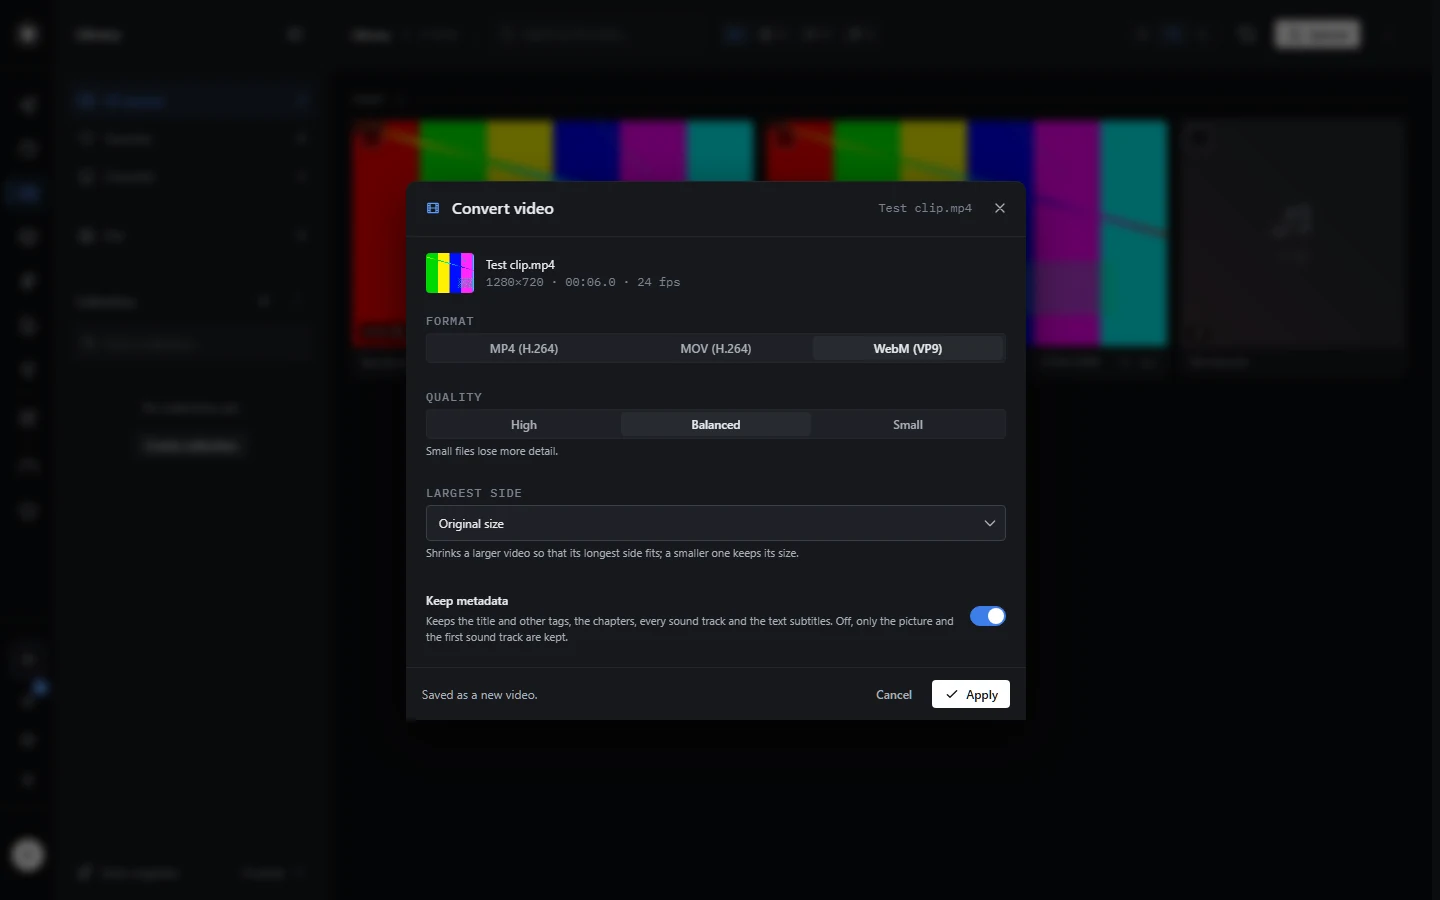
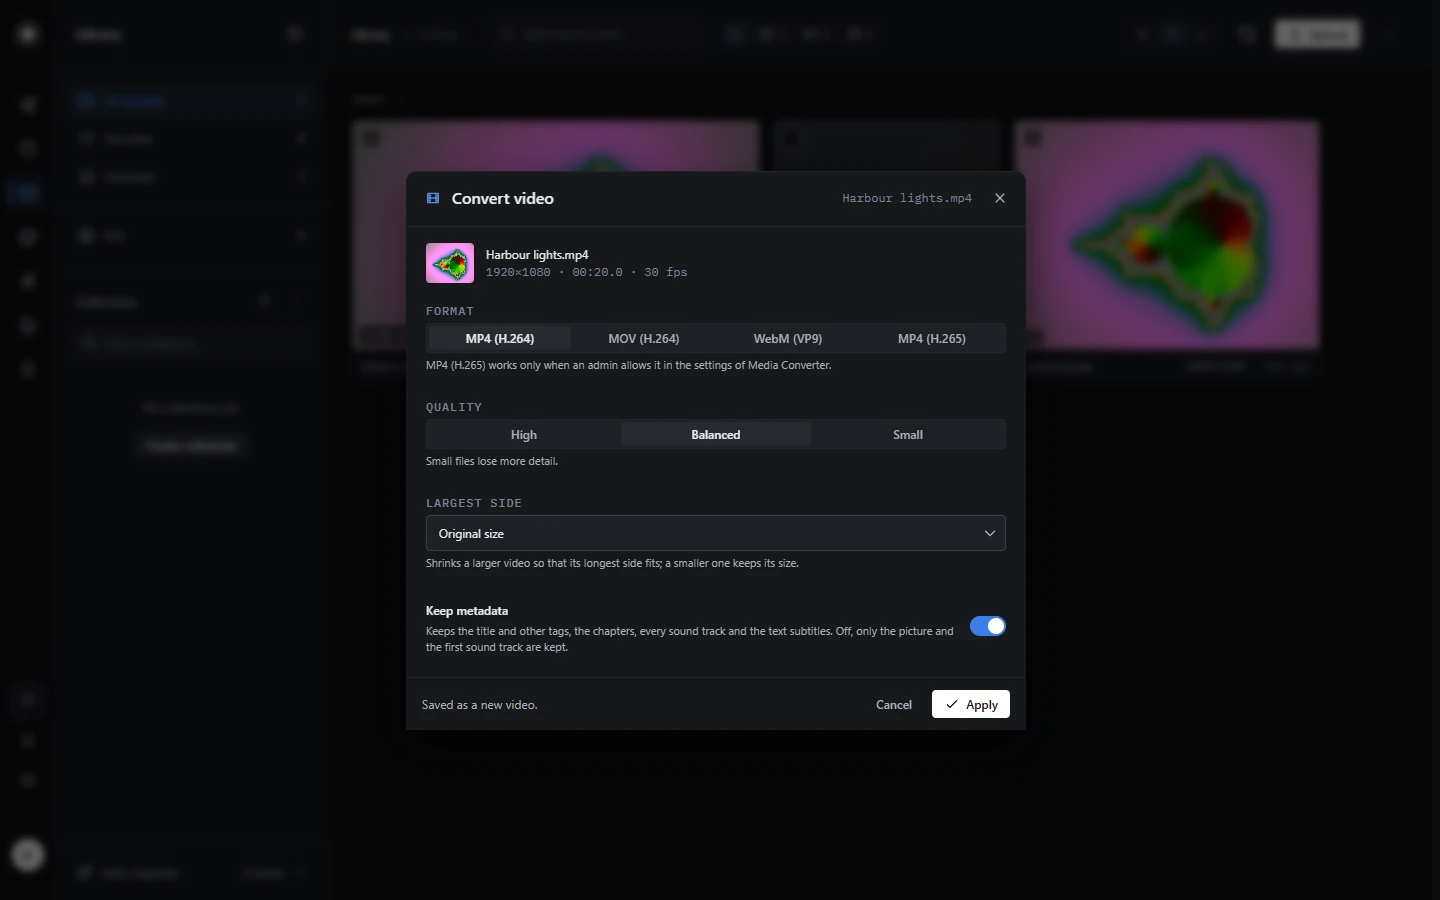
Media Converter docs: one menu name, a shorter rate label, captures
The README names the menu Edit, as the screen does, and says where it
opens. The first frame rate of Make an animation is now "Up to 25 per
second", which fits its button, and its help says what it keeps. The
reference and the README describe where the H.265 trial now looks.
The Convert video capture shows the window of this version, and the
Make an animation capture shows the new label.

diff --git a/media-convert/README.md b/media-convert/README.md
@@ -1,6 +1,6 @@
 # Media Converter
 
-Media Converter adds six tools to the **Tools** menu of the Library and of the History in PotionUI, for every user: convert an image, a video or a sound to another format, extract the sound of a video, make a looping GIF or animated WebP from a video, and lighten a video under a size you choose before you send it. Install it from this catalogue:
+Media Converter adds six tools to the **Edit** menu of the items of the Library and of the History in PotionUI, for every user: convert an image, a video or a sound to another format, extract the sound of a video, make a looping GIF or animated WebP from a video, and lighten a video under a size you choose before you send it. Install it from this catalogue:
 ```text
 https://raw.githubusercontent.com/M4-S4/potionui-plugins/main/plugins.json
 ```
@@ -9,7 +9,7 @@ Version 0.2.0. It needs PotionUI 0.2.0 or later.
 
 1. In **Admin › Plugins**, click **Install from catalog**, paste the catalogue URL and click **Read catalog**.
 2. Click **Install** next to **Media Converter**, then **Install** in the window that asks to confirm. It arrives in the list, disabled.
-3. Turn it on with its switch. Its tools appear in the Tools menus at once.
+3. Turn it on with its switch. Its tools appear under **Edit** at once.
 
 Updating from 0.1.0 or 0.1.1 to 0.2.0 needs its own order: disable Media Converter in **Admin › Plugins**, restart PotionUI, update it from the catalogue, then enable it. Tried in another order, the tools of the new version may not load: the update or the enabling ends with an error, and Media Converter stays on its old version or without its tools. If that happens, start again from the first step, and skip the update step if the catalogue already shows 0.2.0 installed.
 
@@ -23,7 +23,7 @@ In **Admin › Plugins › Media Converter › Settings**, an admin sets the num
 
 ## Using it
 
-The tools sit under **Edit**, where the menu names them with "Media Convert" below each tool:
+The tools sit under **Edit**: right-click an item, or open it and click **Edit**; for several selected items, click **Tools**, then **Edit**. The menu names them with "Media Convert" below each tool:
 
 | Tool | Takes | Makes |
 |---|---|---|
@@ -40,7 +40,7 @@ The result is a new item in the Library, next to the original, which stays as it
 
 The tool window always saves a new item and never offers to replace the original. A request from the chat, the automation or the API can still ask to replace an image, a video or a sound by its conversion. The replaced item can then keep its old name and extension over the new content, such as `Cat.png` holding a WebP picture, and a download or a zip export of the Library carries that name along.
 
-![The Convert video window on a 1280 × 720 clip: format WebM (VP9), quality Balanced, original size, Keep metadata on](https://raw.githubusercontent.com/M4-S4/potionui-plugins/main/media-convert/docs/screenshots/convert-video-dark.webp)
+![The Convert video window on a 1920 × 1080 clip of 20 seconds: format MP4 (H.264) among MP4 (H.264), MOV (H.264), WebM (VP9) and MP4 (H.265), with the note that MP4 (H.265) works only when an admin allows it, which is off on this server; quality Balanced, original size, Keep metadata on](https://raw.githubusercontent.com/M4-S4/potionui-plugins/main/media-convert/docs/screenshots/convert-video-dark.webp)
 
 ![The Library after the conversion: Test clip.webm, marked new, next to Test clip.mp4, which stays as it was](https://raw.githubusercontent.com/M4-S4/potionui-plugins/main/media-convert/docs/screenshots/result-dark.webp)
 
@@ -50,7 +50,7 @@ The tool window always saves a new item and never offers to replace the original
 
 Pick the format, where the animation starts in the video, how long it lasts (10 seconds by default, from half a second to 30), its largest side (640, 480 or 320 px, never larger than the video), its frame rate and its quality. The result is an image item, `Clip.gif` or `Clip.webp`, that loops forever.
 
-![The Make an animation window on a 1920 × 1080 clip of 20 seconds: GIF, start 0, length 10 seconds, 480 px, frame rate Like the video, quality Balanced](https://raw.githubusercontent.com/M4-S4/potionui-plugins/main/media-convert/docs/screenshots/make-animation-dark.webp)
+![The Make an animation window on a 1920 × 1080 clip of 20 seconds: GIF, start 0, length 10 seconds, 480 px, frame rate Up to 25 per second, quality Balanced](https://raw.githubusercontent.com/M4-S4/potionui-plugins/main/media-convert/docs/screenshots/make-animation-dark.webp)
 
 - A GIF plays everywhere but grows fast with grain and movement: in our tests, 16 seconds of grainy footage at 640 px made a GIF of 47 MB, and 15 seconds at 320 px and Half one of 5 MB. An animated WebP plays in current browsers and weighed 2 to 16 times less than the GIF in our tests, the most on grainy footage. For a light GIF, pick 320 px, Half or A third.
 - The frame rate is the video's own, divided by the smallest whole number that brings it to 25 per second or less, and the other two steps keep every second or every third frame of that: a 16 fps clip gives 16, 8 or about 5 frames per second, a 30 fps clip 15, 7.5 or 5. The motion stays even.
@@ -76,7 +76,7 @@ MP4 (H.265) stays in the format list of Convert video even while an admin has no
 
 - The file is tagged `hvc1`, which Apple devices need to play it. Whether an H.265 video plays depends on the browser and the device: some browsers and systems play it only with hardware that decodes H.265 or an extra codec, so the item may not play in the Library on every computer.
 - H.265 makes lighter files than H.264 at a similar quality, but it took two to five times as long to encode in our tests. The thread setting bounds the thread pool of the H.265 encoder like the other encoders.
-- Before it encodes a video that may take long, Media Converter times the encoding of three short parts of it, at a quarter, half and three quarters of its length, and refuses the video if the whole would take more than about 18 minutes at the pace of the slowest part, with "MP4 (H.265) would take about N minutes to encode this video on this server, more than a conversion may take; choose a smaller Largest side, MP4 (H.264), or a shorter video". It is an estimate: a video much heavier elsewhere than in these three parts can still take longer.
+- Before it encodes a video that may take long, Media Converter times the encoding of three short parts of it, at the start, half and three quarters of its length, and refuses the video if the whole would take more than about 18 minutes at the pace of the slowest part, with "MP4 (H.265) would take about N minutes to encode this video on this server, more than a conversion may take; choose a smaller Largest side, MP4 (H.264), or a shorter video". It is an estimate: a video much heavier elsewhere than in these three parts can still take longer.
 - H.265 is covered by patents that are licensed through patent pools. Check whether they concern your use before you allow it.
 
 Every setting, the encoder behind each quality step, what each conversion keeps and loses, every refusal with its message and the load on the server are in the [reference](docs/reference.md), which PotionUI also shows in **Admin › Documentation** as "Media Converter: reference".
@@ -106,7 +106,7 @@ Every setting, the encoder behind each quality step, what each conversion keeps 
 
 ### What changed in 0.1.0
 
-- **First version.** Four tools in the Tools menu of the Library and the History: Convert image saves an image as PNG, JPEG or WebP; Convert video saves a video as MP4 or MOV in H.264, or as WebM in VP9; Convert sound saves a sound as WAV, MP3, FLAC, M4A (AAC) or OGG (Opus); Extract sound saves the sound of a video in the same five formats.
+- **First version.** Four tools in the Edit menu of the Library and the History: Convert image saves an image as PNG, JPEG or WebP; Convert video saves a video as MP4 or MOV in H.264, or as WebM in VP9; Convert sound saves a sound as WAV, MP3, FLAC, M4A (AAC) or OGG (Opus); Extract sound saves the sound of a video in the same five formats.
 - **Settings of each tool.** Three quality steps (High, Balanced, Small) for the lossy formats and a Keep metadata switch; Convert image and Convert video can also make the result smaller, with a largest side from 3840 px down to 640 px.
 - **Admin settings.** The number of ffmpeg threads per conversion, and the longest video or sound a user may convert, 30 minutes at most.
 - **Bounds.** Images over 67 million pixels and videos over about 9.4 million pixels (4096 × 2304) are refused. One conversion writes at most 4 GB and one run at most 8 GB. Media Converter refuses to convert when less than 2 GB are free on the disk where PotionUI keeps its working files.

diff --git a/media-convert/docs/reference.md b/media-convert/docs/reference.md
@@ -47,7 +47,7 @@ The same settings as **Convert sound**, with M4A as the default format. It takes
 | Start | Where the animation starts in the video, in seconds, 0 by default. |
 | Length | 10 seconds by default, from 0.5 to 30. The animation stops at the end of the video if it comes first. |
 | Largest side | 640, 480 (default) or 320 px. A smaller video keeps its size. |
-| Frame rate | Like the video, 25 per second at most (default); Half; A third. |
+| Frame rate | Up to 25 per second (default); Half; A third. |
 | Quality | High, Balanced (default), Small |
 
 The first step is the video's frame rate divided by the smallest whole number that brings it to 25 per second or less: 16 stays 16, 24 stays 24, 30 gives 15 and 60 gives 20. Half and A third divide that rate again by 2 and 3, so the result keeps evenly spaced frames of the video. A video whose frame rate cannot be read is taken at 12 frames per second.
@@ -140,7 +140,7 @@ The tool window shows the reason, and nothing is added to the Library.
 | A result that would weigh more than one conversion or one run may write, more than the server can hold, or more than is left of the user's storage | Refused with what to do: choose a lighter format, convert fewer items at a time, free some space, or try again later or ask an admin when the server is short of disk space (see Load on the server). A WAV of known length is refused before encoding, since its size is known in advance; any other sound, and a video, is stopped as soon as it reaches the limit, then refused; an image is written whole, then refused, and nothing is added to the Library. |
 | A transparent image converted to JPEG | Converted, with transparent areas filled with the background colour. |
 | MP4 (H.265) while the admin setting is off | Refused when the run is asked for, before any step of it runs, also as a later step of a chain: "MP4 (H.265) is turned off on this server: an admin can allow it in Admin › Plugins › Media Converter › Settings. Choose MP4 (H.264) meanwhile". |
-| MP4 (H.265) on a video that would take too long | Media Converter first counts the frames of the video by reading the file. When the size of the result and that count, against the thread count and the processor cores Media Converter may use (a processor limit set on its container included), leave any doubt, or when the frames cannot be counted, it encodes and times three parts of about 2 seconds and at most 120 frames each, at a quarter, half and three quarters of the video. If all the frames of the video would take more than about 18 minutes at the pace of the slowest part, it is refused before the real encoding starts: "MP4 (H.265) would take about N minutes to encode this video on this server, more than a conversion may take; choose a smaller Largest side, MP4 (H.264), or a shorter video". This is an estimate: a video much heavier elsewhere than in these parts can take longer, and may then be stopped as too long, as said under Settings below. |
+| MP4 (H.265) on a video that would take too long | Media Converter first counts the frames of the video by reading the file. When the size of the result and that count, against the thread count and the processor cores Media Converter may use (a processor limit set on its container included), leave any doubt, or when the frames cannot be counted, it encodes and times three parts of about 2 seconds and at most 120 frames each, at the start, half and three quarters of the video. The parts are placed on the longest length the file states that its counted frames can fill at its frame rate, so that a file stating a length longer than its picture is still timed where its picture is. If all the frames of the video would take more than about 18 minutes at the pace of the slowest part, it is refused before the real encoding starts: "MP4 (H.265) would take about N minutes to encode this video on this server, more than a conversion may take; choose a smaller Largest side, MP4 (H.264), or a shorter video". This is an estimate: a video much heavier elsewhere than in these parts can take longer, and may then be stopped as too long, as said under Settings below. |
 | An animation longer than 30 seconds or shorter than half a second | Refused by the tool window; a request that bypasses it is refused by the tool. |
 | An animation that starts at or after the end of the video | Refused before any encoding: "This video lasts N s: the animation must start before its end". |
 | A size too small for Lighten for sending | Refused before any encoding, with the length of the video, the smallest size that would work and the next size of the list, and with a hint to turn off Keep the sound when that alone is enough. A video too long for 50 MB is told to be trimmed first. |
